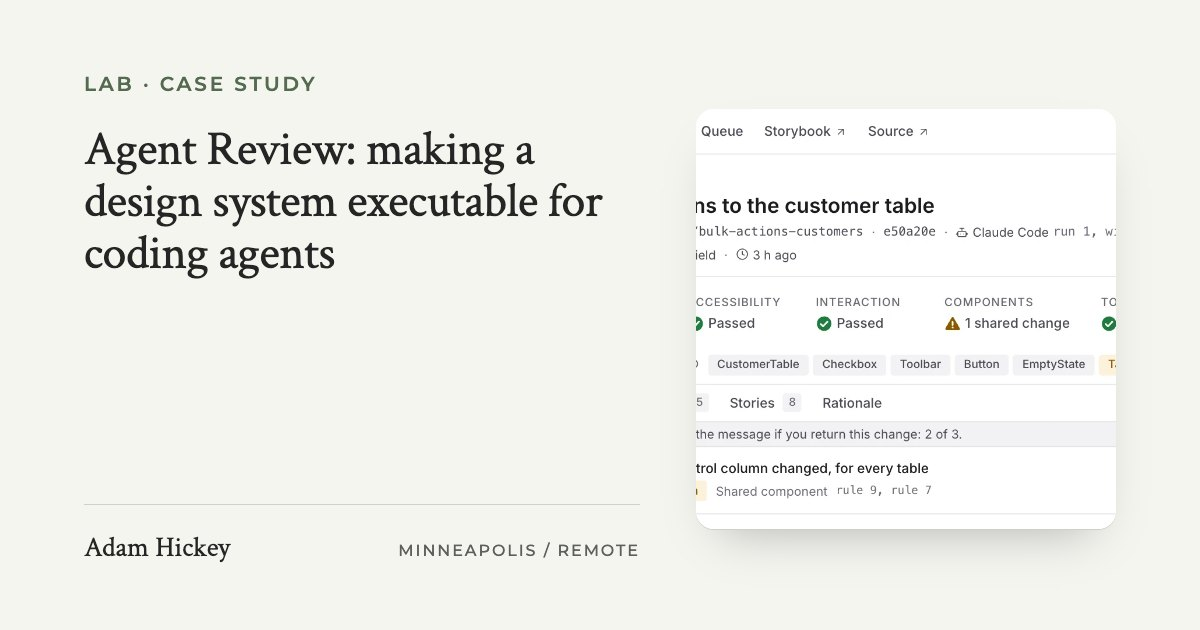
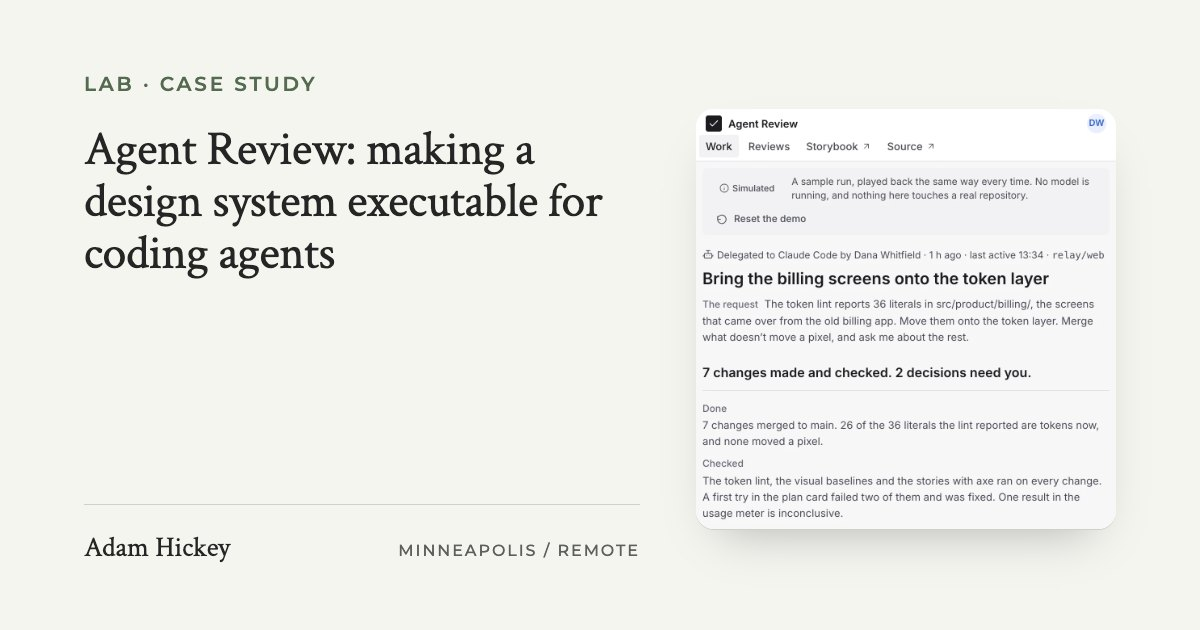
Agent Review's case study gains its second iteration: designing for agents that need less supervision (#385)
* Agent Review's case study gains its second iteration: designing for agents that need less supervision, with the first iteration's findings kept as they were

Three sections after "What I learned": why a review queue built around
today's agent limits ages badly, what the product now leads with (results,
boundaries in plain words, only real decisions, work you can take back),
one delegation end to end (three reasons to stop, an answer that becomes a
rule only when asked, a case outside the rule that still pauses, revert and
revoke, the quiet state), a Human judgment note on why a passing check is a
fact about the code and not about intent, and what the iteration has not
shown, with the questions to test next. The run is simulated and the page
says so. Three figures from scripts/lab-shots.mjs (delegation, rule,
quiet). The hero dek, tour intro and outro, facts strip (203 stories),
"Try the review queue" link and the call to action follow; the homepage
lab card, the lab index card, llms.txt and the product-design-engineer
article's story count are updated to match. 9 min read: 2,257 words as
the page opens.

* The Agent Review card and share images show the delegated work, the screen their words now describe

The card (homepage and lab index) is the product's front door at its 784px
tablet layout: the simulated label, the title and the account's first
three rows, whole, with the crop ending where the Scope row begins. The
[…]

diff --git a/lab/agent-review.html b/lab/agent-review.html
@@ -12,14 +12,14 @@
   <meta charset="utf-8" />
   <meta name="viewport" content="width=device-width, initial-scale=1" />
   <title>Agent Review: Making a Design System Executable for Coding Agents | Adam Hickey</title>
-  <meta name="description" content="A case study in reviewing UI written by coding agents: a React component system with tokens and a Storybook, the rules an agent reads before touching it, a controlled experiment where Claude Code added a feature inside it, the validation that caught where it drifted, and the tool a product designer uses to review the consequences and send a precise correction back." />
+  <meta name="description" content="A case study in handing UI work to coding agents: a React component system with tokens and a Storybook, the rules an agent reads before touching it, a controlled experiment where Claude Code added a feature inside it, the validation that caught where it drifted, the tool a product designer uses to review what came back, and a second iteration designed for agents that need less supervision." />
 
   <link rel="canonical" href="https://adamhickey.com/lab/agent-review.html" />
   <meta property="og:type" content="article" />
   <meta property="og:url" content="https://adamhickey.com/lab/agent-review.html" />
   <meta property="og:title" content="Agent Review: Making a Design System Executable for Coding Agents | Adam Hickey" />
-  <meta property="og:description" content="A case study in reviewing UI written by coding agents: a React component system with tokens and a Storybook, the rules an agent reads before touching it, a controlled experiment where Claude Code added a feature inside it, the validation that caught where it drifted, and the tool a product designer uses to review the consequences and send a precise correction back." />
-  <meta property="og:image" content="https://adamhickey.com/img/og/agent-review.jpg" />
+  <meta property="og:description" content="A case study in handing UI work to coding agents: a React component system with tokens and a Storybook, the rules an agent reads before touching it, a controlled experiment where Claude Code added a feature inside it, the validation that caught where it drifted, the tool a product designer uses to review what came back, and a second iteration designed for agents that need less supervision." />
+  <meta property="og:image" content="https://adamhickey.com/img/og/agent-review.jpg?v=2" />
   <meta property="og:image:width" content="1200" />
   <meta property="og:image:height" content="630" />
   <meta name="twitter:card" content="summary_large_image" />
@@ -34,10 +34,10 @@
           "@type": "Article",
           "@id": "https://adamhickey.com/lab/agent-review.html#article",
           "headline": "Agent Review: making a design system executable for coding agents",
-          "description": "A case study in reviewing UI written by coding agents: a React component system with tokens and a Storybook, the rules an agent reads before touching it, a controlled experiment where Claude Code added a feature inside it, the validation that caught where it drifted, and the tool a product designer uses to review the consequences and send a precise correction back.",
+          "description": "A case study in handing UI work to coding agents: a React component system with tokens and a Storybook, the rules an agent reads before touching it, a controlled experiment where Claude Code added a feature inside it, the validation that caught where it drifted, the tool a product designer uses to review what came back, and a second iteration designed for agents that need less supervision.",
           "url": "https://adamhickey.com/lab/agent-review.html",
           "mainEntityOfPage": "https://adamhickey.com/lab/agent-review.html",
-          "image": "https://adamhickey.com/img/og/agent-review.jpg",
+          "image": "https://adamhickey.com/img/og/agent-review.jpg?v=2",
           "datePublished": "2026-10-01",
           "dateModified": "2026-10-03",
           "author": {
@@ -279,10 +279,15 @@
              words to the page as it opens: 1,655 of them, so 7 minutes, and
              9 with every fold open. Its seven notes are in the document
              whether or not the tour runs, so a reader on a phone or with
-             reduced motion has the same words in a list. -->
-        <p class="case-kicker">Lab &middot; case study &middot; 7 min read</p>
+             reduced motion has the same words in a list.
+
+             The second iteration (2026-10-03) added three sections after
+             "What I learned", cut twice to keep the page under ten minutes:
+             2,257 words as the page opens by the same count (2,860 with the
+             folds open), so 9 minutes. -->
+        <p class="case-kicker">Lab &middot; case study &middot; 9 min read</p>
         <h1 class="case-title">Agent Review</h1>
-        <p class="build-dek">AI doesn&rsquo;t remove design judgment. It moves it. Agent Review tests where it goes when a coding agent builds production UI. I built a React component system, ran an agent inside it twice, with written rules and without, and made the tool a product designer uses to review what came back.</p>
+        <p class="build-dek">AI doesn&rsquo;t remove design judgment. It moves it. Agent Review tests where it goes when a coding agent builds production UI. I built a React component system, ran an agent inside it twice, with written rules and without, and made the tool a product designer uses to review what came back. Its second iteration designs for agents that need less review.</p>
         <!-- The way in to the prototype, in the hero, as on the lab's other two
              pieces, which open on "Try the prototype". Until 2026-10-03 this
              page's only link to the product was the first word group of the
@@ -299,8 +304,8 @@
           <dl class="glance-facts">
             <div><dt>Role</dt><dd>Product design &middot; Design-system architecture &middot; Prototyping &middot; Front-end implementation &middot; Experiment design</dd></div>
             <div><dt>Built with</dt><dd>React, TypeScript, Storybook, Vitest with axe, Playwright, Claude Code</dd></div>
-            <div><dt>Size</dt><dd>13 components, 173 stories, 12 rules, 3 branches of one feature</dd></div>
-            <div><dt>Status</dt><dd>Live. <a href="https://adamdhickey-collab.github.io/agent-review/" target="_blank" rel="noopener noreferrer">The product</a>, <a href="https://adamdhickey-collab.github.io/agent-review/storybook/" target="_blank" rel="noopener noreferrer">the Storybook</a>, and <a href="https://github.com/adamdhickey-collab/agent-review" target="_blank" rel="noopener noreferrer">the source and the record</a></dd></div>
+            <div><dt>Size</dt><dd>13 components, 203 stories, 12 rules, 3 branches of one feature</dd></div>
+            <div><dt>Status</dt><dd>Live. <a href="https://adamdhickey-collab.github.io/agent-review/" target="_blank" rel="noopener noreferrer">The product</a>, now opening on a simulated run, <a href="https://adamdhickey-collab.github.io/agent-review/storybook/" target="_blank" rel="noopener noreferrer">the Storybook</a>, and <a href="https://github.com/adamdhickey-collab/agent-review" target="_blank" rel="noopener noreferrer">the source and the record</a></dd></div>
           </dl>
         </div>
 
@@ -348,7 +353,7 @@
             </div>
             <div class="wt-notes">
               <div class="wt-note wt-note--intro">
-                <p class="wt-kicker">The product</p>
+                <p class="wt-kicker">The first iteration</p>
                 <h3>One screen, one change an agent made.</h3>
                 <p class="wt-body">This is where a product designer reviews what a coding agent built, before it merges. Seven parts, and what each is for.</p>
                 <p class="wt-hint" aria-hidden="true">Scroll to step through &darr;</p>
@@ -397,8 +402,8 @@
               </div>
               <div class="wt-note wt-note--outro">
                 <p class="wt-kicker">The whole screen</p>
-                <h3>Seven parts, one question: what only a person can decide.</h3>
-                <p class="wt-body">Everything below is how the experiment was run, what the agent did, and what came out of it.</p>
+                <h3>Seven parts, one question: what still needs a person.</h3>
+                <p class="wt-body">Below: the experiment, what came of it, and the second iteration.</p>
               </div>
             </div>
           </div>
@@ -476,14 +481,14 @@
           <li><strong>A finding</strong> puts the preview in the state, and at the width, that shows it, with the element outlined.</li>
           <li><strong>A decision:</strong> accept, reject, or return to the agent with a correction.</li>
         </ul>
-        <p>The product and the screen it reviews are built from the same component system, which is what lets a finding say &ldquo;Button / secondary / compact already covers this&rdquo; and open the story in one press. <a href="https://adamdhickey-collab.github.io/agent-review/" target="_blank" rel="noopener noreferrer">Try it</a>; the three experiment branches are the first three rows of the queue.</p>
+        <p>The product and the screen it reviews are built from the same component system, which is what lets a finding say &ldquo;Button / secondary / compact already covers this&rdquo; and open the story in one press. <a href="https://adamdhickey-collab.github.io/agent-review/#/queue" target="_blank" rel="noopener noreferrer">Try the review queue</a>; the three experiment branches are its first three rows.</p>
         <details>
           <summary class="disclosure-row"><svg class="disclosure-chev" viewBox="0 0 24 24" fill="none" stroke="currentColor" stroke-width="2.25" stroke-linecap="round" stroke-linejoin="round" aria-hidden="true" focusable="false"><path d="m6 9 6 6 6-6"/></svg><span>How the system and the rules are built</span></summary>
           <div class="case-narrow">
             <p><strong>The system.</strong> Thirteen components from one token layer in a plain CSS file, with no component kit underneath and no utility framework, because the component model is the point and the tokens should not hide behind utility names.</p>
                     <ul class="build-list">
                       <li><strong>Every value a token:</strong> spacing on a 4px scale, four type sizes, semantic color, two radii, one shadow, one focus ring, three durations.</li>
-                      <li><strong>Every state a story, and not only a Default:</strong> a Button has ten, a Table nine, the review&rsquo;s own components eighty-one. 173 in all.</li>
+                      <li><strong>Every state a story, and not only a Default:</strong> a Button has ten, a Table nine, the review&rsquo;s own components a hundred and ten. 203 in all.</li>
                       <li><strong>Every story a test:</strong> Vitest renders each one in Chromium and runs axe on it, with violations set to fail. A token lint reports any literal written where a token exists. Playwright holds the screens to their baselines and every toolbar to its own box at 768.</li>
                     </ul>
                     <figure class="build-shot">
@@ -635,12 +640,104 @@
       </div>
     </section>
 
+    <!-- THE SECOND ITERATION, 2026-10-03. Everything above is the first
+         iteration and stays as it was measured: real runs, real checks.
+         Everything from here is a design exploration in the same product,
+         and its run is simulated; the words say so, not only a note, and so
+         does the product's own screen. The product's record of it is
+         "The second iteration" in agent-review's PROJECT.md. The three
+         figures are scripts/lab-shots.mjs (delegation, rule, quiet); the
+         run plays back the same way every time, so they retake exactly. -->
+    <section class="case-section case-overview build-chapter ground-white" id="less-supervision">
+      <div class="container case-narrow">
+        <h2>The second iteration: less supervision over time</h2>
+        <p>The first version assumes an agent that can&rsquo;t tell an intentional choice from a mistake, so a person reviews every change. As agents improve, that queue turns their progress into busywork. The new question:</p>
+        <p><strong>How can someone delegate more of the work and still understand the results, the boundaries, and the decisions that are still theirs?</strong></p>
+        <p>Attention is the cost, so fewer required reviews is the goal, if nothing important is hidden. The product now opens on delegated work:</p>
+        <ul class="build-list">
+          <li><strong>Results first:</strong> what the agent finished, how it was checked, what&rsquo;s unresolved, and whether it stayed in bounds.</li>
+          <li><strong>Boundaries in plain words:</strong> what it does on its own, what it asks first, and what is outside the delegation.</li>
+          <li><strong>Only real decisions:</strong> each says which boundary stopped it, the evidence, and a recommendation.</li>
+          <li><strong>Work you can take back:</strong> every change shows what changed, why, on whose authority, and what the checks did and didn&rsquo;t prove, with a revert.</li>
+        </ul>
+        <figure class="build-shot">
+          <picture>
+                <source media="(max-width: 40rem)" srcset="../img/lab/agent-review-delegation-phone.webp?v=1" width="375" height="720" />
+                <img src="../img/lab/agent-review-delegation.webp?v=1" width="1100" height="760" loading="lazy" decoding="async"
+                     alt="Agent Review&rsquo;s delegated work, in a simulated run titled &ldquo;Bring the billing screens onto the token layer&rdquo;: the account reads &ldquo;7 changes made and checked. 2 decisions need you.&rdquo;, the first decision asks whether a red is a failure or a value that was replaced, and the seven boundaries are beside it." />
+              </picture>
+          <figcaption>A simulated run: seven changes merged on its own, two stops, and the boundaries beside the work.</figcaption>
+        </figure>
+      </div>
+    </section>
+
+    <section class="case-section case-overview build-chapter build-chapter--within ground-warm" id="one-delegation">
+      <div class="container case-narrow">
+        <h2>One delegation, end to end</h2>
+        <p>The job is moving Relay&rsquo;s billing screens onto the token layer. The agent stops for three reasons, each handled differently:</p>
+        <ul class="build-list">
+          <li><strong>A problem it can fix:</strong> it named a token that doesn&rsquo;t exist. Two checks failed, it corrected the name and merged. Nobody was asked.</li>
+          <li><strong>Missing intent:</strong> one red is both <code>--color-danger</code> and <code>--color-diff-remove-ink</code>. It asks what the red means.</li>
+          <li><strong>Past its authority:</strong> the fix is a new token, which every screen shares. It asks for that one step.</li>
+        </ul>
+        <p>An answer becomes a rule only if the person checks a box, and the rule says in words what it covers and what it doesn&rsquo;t. Here it settles three waiting changes. A fourth, close but outside it, still pauses.</p>
+        <figure class="build-shot">
+          <picture>
+                <source media="(max-width: 40rem)" srcset="../img/lab/agent-review-delegation-rule-phone.webp?v=1" width="375" height="720" />
+                <img src="../img/lab/agent-review-delegation-rule.webp?v=1" width="1100" height="760" loading="lazy" decoding="async"
+                     alt="The first decision answered with &ldquo;Use the diff pair&rdquo;, the box &ldquo;Also use this answer for similar cases&rdquo; checked, and the rule as it will read: what it covers, what it doesn&rsquo;t, and the three waiting changes it settles now, above Cancel and Apply." />
+              </picture>
+          <figcaption>An answer becoming a rule. The box starts unchecked.</figcaption>
+        </figure>
+        <aside class="dp-note hj-note" aria-labelledby="hj-check-label hj-check-head">
+          <p class="dp-note-label" id="hj-check-label"><svg class="dp-note-icon" xmlns="http://www.w3.org/2000/svg" viewBox="0 0 24 24" aria-hidden="true" focusable="false"><path d="M12 3v18"></path><path d="m19 8 3 8a5 5 0 0 1-6 0zV7"></path><path d="M3 7h1a17 17 0 0 0 8-2 17 17 0 0 0 8 2h1"></path><path d="m5 8 3 8a5 5 0 0 1-6 0zV7"></path><path d="M7 21h10"></path></svg>Human judgment</p>
+          <h3 class="dp-note-head" id="hj-check-head">A passing check is a fact about the code, not about what was meant.</h3>
+          <p class="dp-note-body">Both tokens draw the same red, so every check passes whichever one is chosen.</p>
+          <ul class="build-list dp-note-list">
+            <li><strong>So the agent asks:</strong> nothing it can measure settles the meaning.</li>
+            <li><strong>So the answer can become a rule:</strong> the person decides once, and the next matching case doesn&rsquo;t ask.</li>
+            <li><strong>So every record says what no check established,</strong> even for its own choices.</li>
+          </ul>
+          <p class="dp-note-source">Evidence: the two tokens share a value in the product&rsquo;s <a href="https://github.com/adamdhickey-collab/agent-review/blob/main/src/tokens/tokens.css" target="_blank" rel="noopener noreferrer">token layer</a>.</p>
+        </aside>
+        <p>Control stays with the person:</p>
+        <ul class="build-list">
+          <li><strong>A one-time answer stays one time.</strong> Without the box, each waiting change asks again.</li>
+          <li><strong>A rule can be edited or revoked.</strong> Revoking leaves what it made, and says so.</li>
+          <li><strong>Any merged change can be reverted,</strong> and the history keeps both.</li>
+          <li><strong>Allowing one step doesn&rsquo;t move the boundary.</strong> The next new token asks again.</li>
+        </ul>
+        <figure class="build-shot">
+          <picture>
+                <source media="(max-width: 40rem)" srcset="../img/lab/agent-review-delegation-quiet-phone.webp?v=1" width="375" height="720" />
+                <img src="../img/lab/agent-review-delegation-quiet.webp?v=1" width="1100" height="760" loading="lazy" decoding="async"
+                     alt="The same run after the decisions: &ldquo;Nothing needs your attention.&rdquo; and &ldquo;13 changes made and checked. Completed work is below.&rdquo;, with the account under it, the completed work listed below, and the rule beside it." />
+              </picture>
+          <figcaption>With nothing to decide, the screen says so, and invents no work to fill the space.</figcaption>
+        </figure>
+      </div>
+    </section>
+
+    <section class="case-section case-overview build-chapter build-chapter--within ground-tea" id="not-yet-shown">
+      <div class="container case-narrow">
+        <h2>What the second iteration hasn&rsquo;t shown</h2>
+        <p>The first iteration&rsquo;s findings come from real runs. This one is a design exploration: its run is simulated, with no model behind it, and the screen says so. Whether it cuts review time or earns trust is the question, not the finding. What I&rsquo;d test next:</p>
+        <ul class="build-list">
+          <li>Can they explain what they&rsquo;ve delegated?</li>
+          <li>Do they understand why the agent paused?</li>
+          <li>Can they spot a wrong automatic action?</li>
+          <li>Can they correct or revoke a standing rule?</li>
+          <li>Does it cut interruptions without hiding a failure?</li>
+        </ul>
+      </div>
+    </section>
+
     </main>
   <footer class="case-footer">
       <div class="container case-narrow">
         <div class="case-ask">
           <h2 class="case-ask-title">Want this on your team?</h2>
-          <p>A component system an agent works inside, the rules it reads, the checks that measure what comes back, and the review that keeps judgment where it belongs. It starts with the system you already have.</p>
+          <p>A component system an agent works inside, the rules it reads, the checks that measure what comes back, and a review that asks for a person only where one is needed. It starts with the system you already have.</p>
           <a class="case-ask-link" href="../index.html#contact">Start a conversation &rarr;</a>
         </div>
         <p class="build-service">The thinking behind this is in <a href="../writing/what-does-a-design-system-need-once-ai-is-in-the-product.html">what a design system needs once AI is in the product</a> and <a href="../writing/what-does-a-person-need-to-supervise-an-ai-agent.html">what a person needs to supervise an AI agent</a>; the way of working is <a href="../engagement/design-system-foundation.html">setting standards other teams adopt</a>.</p>

diff --git a/index.html b/index.html
@@ -647,17 +647,27 @@
                shape. Every claim is one the product or the case study makes:
                the screen rendered from the branch before and after, the five
                validation lanes, "Needs a decision" on what only a person can
-               judge, and a return message that names the token and the rule. -->
+               judge, and a return message that names the token and the rule.
+
+               REWRITTEN AGAIN 2026-10-03 for the product's second iteration,
+               which opens on delegated work instead of a review queue. The
+               lead says what it is now (handing UI work to an agent and
+               knowing what came back) and the direction (asking for a person
+               less often); the three bullets are what that screen does, each
+               a claim the product makes on its own screen. The picture
+               followed the same day: the delegated work at the product's
+               784px tablet layout (scripts/lab-cards.mjs), the simulated
+               label, the title and the account's first three rows. -->
           <div class="case-card case-card--lab reveal">
             <div class="case-card-body">
               <p class="section-eyebrow case-card-eyebrow">Lab &middot; current exploration</p>
               <h3>What changes when coding agents join the product team?</h3>
-              <p class="case-lab-lead"><strong>Agent Review</strong> is the tool a designer uses to review UI a coding agent has changed, before it merges. An agent can change a screen in minutes; this is where someone decides whether the result belongs.</p>
+              <p class="case-lab-lead"><strong>Agent Review</strong> is a tool for handing UI work to a coding agent and knowing what came back. As agents get better, it should ask for a person less often, and only where it matters.</p>
               <p class="case-desc case-lab-intro">What it does:</p>
               <ul class="build-list case-lab-points">
-                <li><strong>It shows the whole change.</strong> The screen the agent built, before and after, next to five checks.</li>
-                <li><strong>It marks what needs a person.</strong> Checks catch drift from the design system; they can&rsquo;t tell a feature from a break.</li>
-                <li><strong>It sends back a correction.</strong> The message names the token and the rule, so the next try follows them.</li>
+                <li><strong>It leads with results.</strong> What the agent finished, how each change was checked, and what is still open.</li>
+                <li><strong>It pauses for a reason.</strong> A question about intent, or a step past its authority, each naming the boundary that stopped it.</li>
+                <li><strong>An answer can become a rule.</strong> Scoped in plain words and easy to revoke, so the same question isn&rsquo;t asked twice.</li>
               </ul>
               <p class="product-actions">
                 <a class="product-link" href="lab/agent-review.html">Read the case study</a>
@@ -666,7 +676,7 @@
             </div>
             <a class="case-thumb build-laptop" href="lab/agent-review.html" aria-label="Read the Agent Review case study">
               <div class="build-laptop-lid">
-                <img decoding="async" loading="lazy" src="img/lab/agent-review-card.webp?v=6" alt="Agent Review open on the change &ldquo;Add bulk actions to the customer table&rdquo;, built by Claude Code: a validation line reading Visual 4 changes, Accessibility passed, Interaction passed, Components 1 shared change, Tokens passed, with a caution triangle on the two that need a look; the components the change touched; and the first finding, &ldquo;The Table&rsquo;s control column changed, for every table&rdquo;, marked Needs a decision under shared component rules 9 and 7." width="1280" height="720"/>
+                <img decoding="async" loading="lazy" src="img/lab/agent-review-card.webp?v=7" alt="Agent Review open on its delegated work, labeled Simulated: &ldquo;Bring the billing screens onto the token layer&rdquo;, delegated to Claude Code, and the account the screen opens on, &ldquo;7 changes made and checked. 2 decisions need you.&rdquo;, with what was done, how it was checked, and what is unresolved." width="1280" height="720"/>
               </div>
             </a>
           </div>

diff --git a/lab/index.html b/lab/index.html
@@ -19,7 +19,7 @@
   <meta property="og:url" content="https://adamhickey.com/lab/index.html" />
   <meta property="og:title" content="Design Systems for Humans and Agents | Adam Hickey" />
   <meta property="og:description" content="Experiments in React, AI-assisted prototyping, component systems and interfaces where design decisions survive into code. Agent Review, a tool for reviewing UI written by coding agents, and two working prototypes of operational software on synthetic data." />
-  <meta property="og:image" content="https://adamhickey.com/img/og/lab.jpg" />
+  <meta property="og:image" content="https://adamhickey.com/img/og/lab.jpg?v=2" />
   <meta property="og:image:width" content="1200" />
   <meta property="og:image:height" content="630" />
   <meta name="twitter:card" content="summary_large_image" />
@@ -238,10 +238,10 @@
         <ol class="writing-list">
           <li class="writing-item">
             <a class="writing-link" href="agent-review.html">
-              <img class="writing-card" src="../img/lab/agent-review-card.webp?v=6" width="1280" height="720" alt="" decoding="async" />
+              <img class="writing-card" src="../img/lab/agent-review-card.webp?v=7" width="1280" height="720" alt="" decoding="async" />
               <div class="writing-text">
                 <h3 class="writing-title">Agent Review: making a design system executable for coding agents</h3>
-                <p class="writing-dek">If agents can write production UI, how does a team make sure they inherit the decisions already made? A React component system with tokens and a Storybook, the rules an agent reads before touching it, a controlled experiment where Claude Code added a feature inside it, the validation that caught where it drifted, and the tool a person uses to review the consequences and send a precise correction back.</p>
+                <p class="writing-dek">If agents can write production UI, how does a team make sure they inherit the decisions already made? A React component system with tokens and a Storybook, the rules an agent reads before touching it, a controlled experiment where Claude Code added a feature inside it, the validation that caught where it drifted, and the tool a person uses to review the consequences and send a precise correction back. Its second iteration designs for delegating more of the work: results first, boundaries in plain words, and rules a person can edit or revoke.</p>
                 <div class="tag-row">
                   <span class="tag">Case study</span>
                   <span class="tag">Working product and public Storybook</span>

diff --git a/writing/what-does-a-product-design-engineer-actually-do.html b/writing/what-does-a-product-design-engineer-actually-do.html
@@ -286,7 +286,7 @@
           <p>In TypeScript the properties are typed, so the contract between design and engineering is a list the compiler reads, not a note in a Figma frame.</p>
           <p>Agent Review has thirteen components, and the Button is the plainest of them: primary, secondary, danger or ghost, default or compact, loading, disabled. That is one file, and ten stories show its states.</p>
           <p>Storybook is the showroom for that file. It renders every component in every state on a page a designer can open without running the product. It is the design system&rsquo;s own site, generated from the system, and the artifact a design engineer most clearly owns.</p>
-          <p>Agent Review has 173 stories, and every story is also a test. Vitest renders it in Chromium and runs axe on it, with violations set to fail. A state with no story is a state nothing checks.</p>
+          <p>Agent Review has 203 stories, and every story is also a test. Vitest renders it in Chromium and runs axe on it, with violations set to fail. A state with no story is a state nothing checks.</p>
           <figure class="writing-figure">
             <figcaption>What the component replaces, and what it keeps</figcaption>
             <div class="writing-split">

diff --git a/README.md b/README.md
@@ -302,10 +302,11 @@ write-ups'. On the homepage the lab is one card under the three accounts
 in Selected work, where the two prototype cards sat until 2026-10-01, and
 since #343 it is about Agent Review rather than the lab as a family: the
 product's own screen (`img/lab/agent-review-card.webp`, from
-`scripts/lab-cards.mjs`, the capture the lab index uses too: run 1's change
-screen at the product's 720px tablet layout, one column of type that can be
-read at card size, where the full desktop review it replaced on 2026-10-02
-could not) in the laptop
+`scripts/lab-cards.mjs`, the capture the lab index uses too: since
+2026-10-03 the delegated work, the product's front door, at its 784px tablet
+layout, one column of type that can be read at card size; before that run
+1's change screen at 720, and before 2026-10-02 the full desktop review,
+which could not be read at that size) in the laptop
 the case studies frame their wide captures in, beside the question the lab
 asks, the project, its result and two links, with the two prototypes and
 the lab index as one line under it. The write-up's four figures are `scripts/lab-shots.mjs`, not hand
